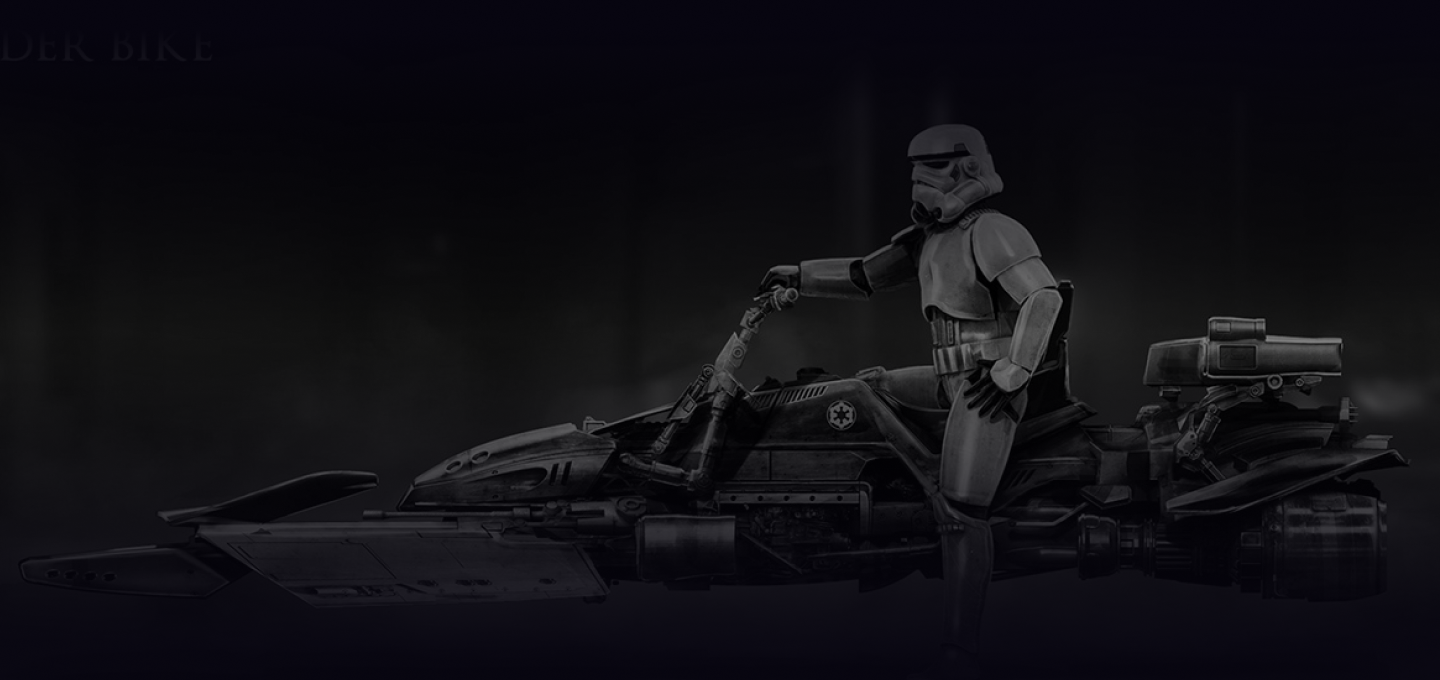
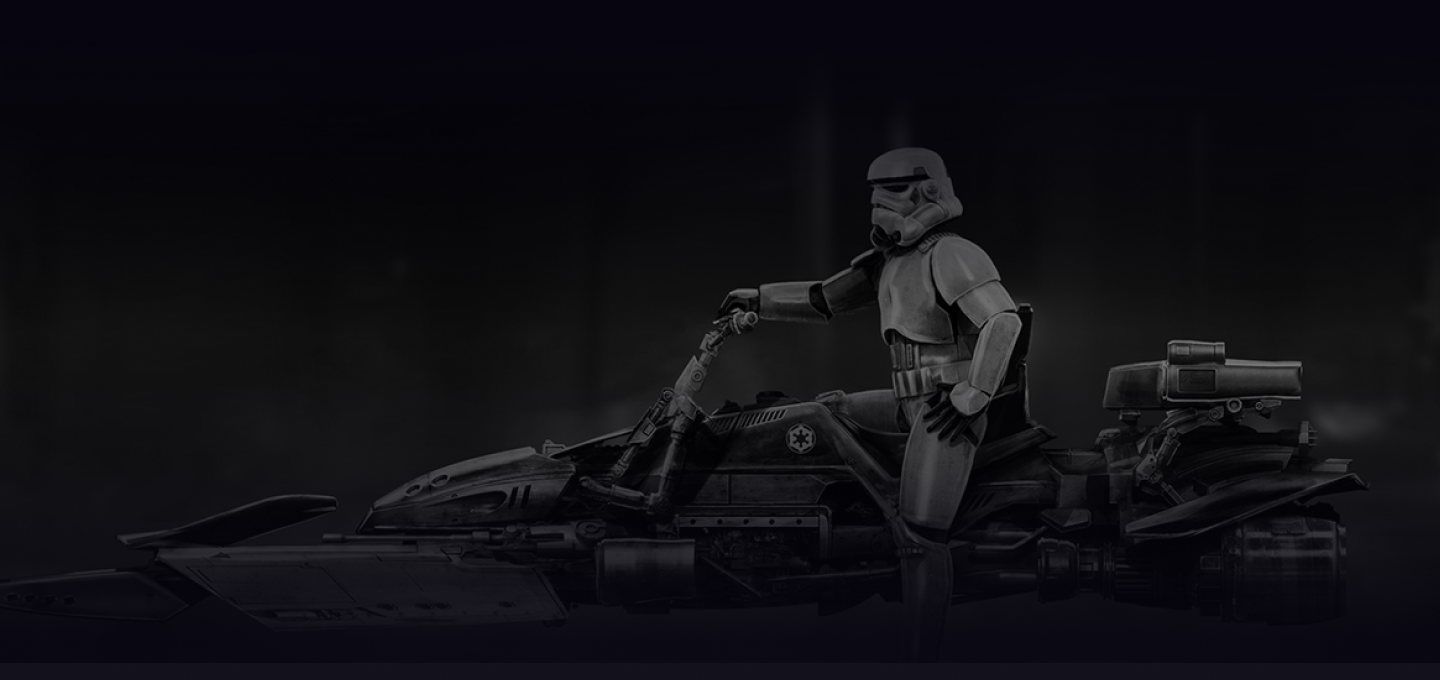
implementação naves page

diff --git a/pages/naves/naves.html b/pages/naves/naves.html
@@ -1,0 +1,52 @@
+<!DOCTYPE html>
+<html lang="en">
+<head>
+    <meta charset="UTF-8">
+    <meta name="viewport" content="width=device-width, initial-scale=1.0">
+    <title>Star Wars Universe | Home</title>
+    <link rel="stylesheet" href="/pages/naves/naves.css">
+    <link rel="stylesheet" href="/styles/global.css">
+    <link rel="icon" type="image/x-icon" href="./assets/img/sw-favicon.png">
+</head>
+<body>
+    <header id="nave-banner">
+        <div class="menu">
+            <div class="menu-logo">
+                <img class="logo-star-wars" src="/assets/img/starwars-logo.png" alt="logo starwars">
+                <h3 class="universe">UNIVERSE</h3>
+            </div>
+            <nav>
+                <ul class="menu-nav">
+                    <li> <a href="/index.html">FILMES</a></li>
+                    <li> <a href="/pages/personagens/personagens.html">PERSONAGENS</a></li>
+                    <li> <a href="/pages/planetas/planetas.html">PLANETAS</a></li>
+                    <li> <a href="/pages/veiculos/veiculos.html">VEÍCULOS</a></li>
+                    <li> <a class="active-item-menu" href="">NAVES</a></li>
+                </ul>
+            </nav>
+        </div>
+        <section class="section-title">
+            <h1 class="title">NAVES</h1>
+            <p class="description">Bem-vindo ao universo onde naves espaciais desempenham papéis cruciais na narrativa épica que encantou gerações.</p>
+        </section>
+    </header>
+    <main>
+        <section class="movie">
+            <img class="movie-img" src="/assets/img/mileneum-nave.png" alt="sw episodio 1">
+            <div class="card-info">
+                <h2 class="card-title">Millennium Falcon</h2>
+                <h3 class="movie-info-title">Modelo</h3>
+                <p>YT-1300 light freighter</p>
+                <h3 class="movie-info-title">Manufacturer</h3>
+                <p>Corellian Engineering Corporation</p>
+                <h3 class="movie-info-title">starship class</h3>
+                <p>Light freighter</p>
+                <h3 class="movie-info-title">sobre</h3>
+                <p> A Millennium Falcon, famosa como a nave de contrabandista de Han Solo, é uma das naves mais reconhecíveis e amadas de Star Wars. A sua estrutura em forma de prato circular, com inúmeros modificativos e melhorias, faz dela uma das naves mais rápidas e ágeis da galáxia. Ela desempenhou um papel fundamental na destruição das Estrelas da Morte e em várias outras batalhas cruciais da Rebelião. Além disso, a relação entre Han Solo e Chewbacca, sua leal co-piloto Wookiee, tornou a Millennium Falcon um ícone por si só.</p>
+            </div>
+        </section>
+       
+    </main>
+    
+</body>
+</html>

diff --git a/pages/naves/naves.css b/pages/naves/naves.css
@@ -1,0 +1,9 @@
+#nave-banner {
+    width: 100%;
+    background-image: url(../../assets/img/naves-background.png);
+    background-position: 50%;
+    background-repeat: no-repeat;
+    background-size: 100% auto;
+    padding-top: 56px;
+    filter: brightness(100%);
+}

diff --git a/styles/global.css b/styles/global.css
@@ -11,7 +11,7 @@ body {
 
 header {
     width: 100%;
-    height: 580px;
+    height: 100vh;
     background-image: url(../assets/img/background-sw.jpg);
     background-repeat: no-repeat;
     background-size: 100% auto;

diff --git a/pages/personagens/personagens.css b/pages/personagens/personagens.css
@@ -2,7 +2,6 @@
 
 .header_personagens {
     width: 100%;
-    height: 580px;
     background-image: url(/assets/img/background-personagens.png);
     background-repeat: no-repeat;
     background-size: 100% auto;
